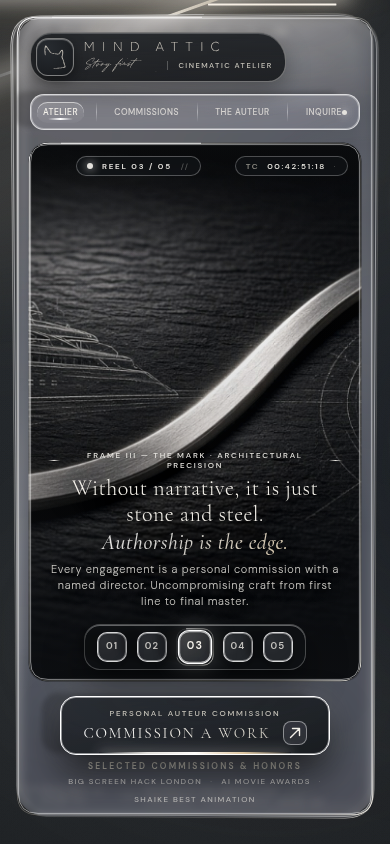
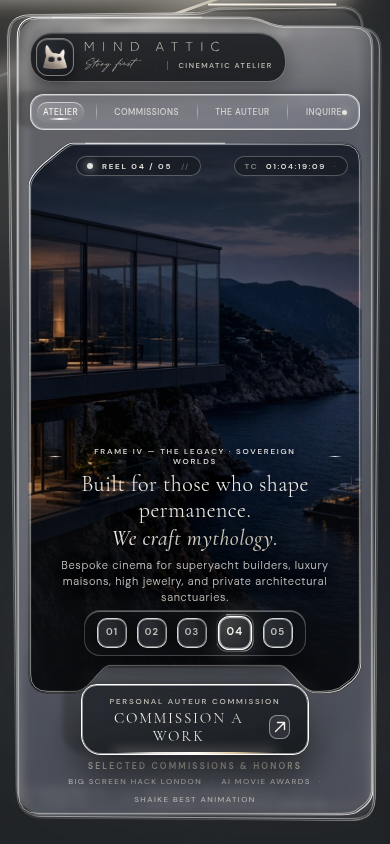
Restore the foil creature and sculpt the mobile frames.
The traced mark lost the eye cutouts, so the badge uses the original PNG again. Wordmark and signature stay the platinum SVGs. On phones the chassis, outer shell, and cinema viewport keep scaled asymmetric contours, including the bottom notch that frames Commission a Work.

diff --git a/assets/js/app.js b/assets/js/app.js
@@ -109,18 +109,17 @@
   }
 
   function buildChassisPath(w, h, r, inset, stepXRatio, stepDrop) {
-    // Stacked mobile header: a plain rounded contour. The desktop terrace
-    // step would slice through the nav once brand and nav sit on two rows.
-    if (w < 768) return roundedRectPath(w, h, r, inset);
+    const mobile = w < 768;
     const x0 = inset;
     const y0 = inset;
     const x1 = w - inset;
     const y1 = h - inset;
-    const rad = Math.max(8, r - inset);
+    const radius = mobile ? 24 : r;
+    const rad = Math.max(8, radius - inset);
 
     const stepX = Math.round(w * stepXRatio);
-    const sDrop = stepDrop;
-    const sWidth = Math.min(54, Math.max(24, w * 0.04));
+    const sDrop = mobile ? Math.round(stepDrop * 0.65) : stepDrop;
+    const sWidth = mobile ? Math.min(36, Math.max(20, w * 0.06)) : Math.min(54, Math.max(24, w * 0.04));
 
     return [
       `M ${x0 + rad} ${y0}`,
@@ -148,29 +147,50 @@
   function buildLayer3Path(w, h, inset) {
     const isMobile = w < 768;
     const r = isMobile ? 22 : 30;
-    // On the stacked mobile header the desktop S-curve terrace (wingW / step)
-    // drops across the right side and cuts the navigation pill. Wrap the
-    // whole stack in one even rounded contour instead.
-    if (isMobile) return roundedRectPath(w, h, r, inset);
     const rad = Math.max(8, r - inset);
     const x0 = inset;
     const y0 = inset;
     const x1 = w - inset;
     const y1 = h - inset;
 
-    // Top-left sanctuary wing width and gentle step drop
-    const wingW = Math.min(410, Math.max(280, Math.round(w * 0.27)));
-    const slopeW = 68;
-    const drop = 12;
+    // Top-left sanctuary wing. On mobile the wing only covers the logo badge
+    // (about 9px of drop at the top edge). The nav rail sits a full row below.
+    const wingW = isMobile
+      ? Math.min(Math.round(w * 0.64), 270)
+      : Math.min(410, Math.max(280, Math.round(w * 0.27)));
+    const slopeW = isMobile ? 42 : 68;
+    const drop = isMobile ? 9 : 12;
+    const slopeEnd = Math.min(wingW + slopeW, x1 - rad - 8);
 
+    if (!isMobile) {
+      return [
+        `M ${x0 + rad} ${y0}`,
+        `L ${wingW} ${y0}`,
+        `C ${wingW + slopeW * 0.45} ${y0}, ${wingW + slopeW * 0.55} ${y0 + drop}, ${wingW + slopeW} ${y0 + drop}`,
+        `L ${x1 - rad} ${y0 + drop}`,
+        `Q ${x1} ${y0 + drop} ${x1} ${y0 + drop + rad}`,
+        `L ${x1} ${y1 - rad}`,
+        `Q ${x1} ${y1} ${x1 - rad} ${y1}`,
+        `L ${x0 + rad} ${y1}`,
+        `Q ${x0} ${y1} ${x0} ${y1 - rad}`,
+        `L ${x0} ${y0 + rad}`,
+        `Q ${x0} ${y0} ${x0 + rad} ${y0}`,
+        "Z",
+      ].join(" ");
+    }
+
+    const brCutX = 22;
+    const brCutY = 16;
     return [
       `M ${x0 + rad} ${y0}`,
       `L ${wingW} ${y0}`,
-      `C ${wingW + slopeW * 0.45} ${y0}, ${wingW + slopeW * 0.55} ${y0 + drop}, ${wingW + slopeW} ${y0 + drop}`,
+      `C ${wingW + slopeW * 0.45} ${y0}, ${wingW + slopeW * 0.55} ${y0 + drop}, ${slopeEnd} ${y0 + drop}`,
       `L ${x1 - rad} ${y0 + drop}`,
       `Q ${x1} ${y0 + drop} ${x1} ${y0 + drop + rad}`,
-      `L ${x1} ${y1 - rad}`,
-      `Q ${x1} ${y1} ${x1 - rad} ${y1}`,
+      `L ${x1} ${y1 - brCutY - rad * 0.4}`,
+      `Q ${x1} ${y1 - brCutY} ${x1 - brCutX * 0.35} ${y1 - brCutY * 0.55}`,
+      `L ${x1 - brCutX * 0.75} ${y1 - brCutY * 0.15}`,
+      `Q ${x1 - brCutX} ${y1} ${x1 - brCutX - rad * 0.5} ${y1}`,
       `L ${x0 + rad} ${y1}`,
       `Q ${x0} ${y1} ${x0} ${y1 - rad}`,
       `L ${x0} ${y0 + rad}`,
@@ -190,9 +210,6 @@
   function buildViewportPath(w, h, inset) {
     const isMobile = w < 768;
     const r = isMobile ? 20 : 28;
-    // No bottom notch on mobile. The notch was drawn through the reel
-    // switcher and the commission dock once those panels stacked.
-    if (isMobile) return roundedRectPath(w, h, r, inset);
     const rad = Math.max(6, r - inset);
     const x0 = inset;
     const y0 = inset;
@@ -200,24 +217,28 @@
     const y1 = h - inset;
 
     // Top-left asymmetrical diagonal sweep (echoing the creature's left ear slope)
-    const cutX = Math.min(118, Math.round(w * 0.082));
-    const cutY = Math.min(68, Math.round(h * 0.095));
+    const cutX = isMobile ? Math.min(52, Math.round(w * 0.13)) : Math.min(118, Math.round(w * 0.082));
+    const cutY = isMobile ? Math.min(34, Math.round(h * 0.065)) : Math.min(68, Math.round(h * 0.095));
 
-    // Bottom-center sculpted notch for the floating glass CTA dock.
-    const notchHalfW = Math.min(196, Math.max(28, Math.round(w * 0.3)));
-    const notchDepth = 34;
-    const notchCurve = 48;
+    // Bottom-center sculpted notch for the Commission a Work dock.
+    const notchCurve = isMobile ? 26 : 48;
+    const brCutX = isMobile ? 28 : 56;
+    const brCutY = isMobile ? 20 : 42;
+    let notchHalfW = isMobile
+      ? Math.min(122, Math.max(96, Math.round(w * 0.33)))
+      : Math.min(196, Math.max(28, Math.round(w * 0.3)));
+    const notchDepth = isMobile ? 26 : 34;
     const cx = w * 0.5;
+    // Keep the notch mouth to the left of the bottom-right chamfer.
+    const brLanding = x1 - brCutX - rad * 0.6;
+    const maxHalf = brLanding - cx - notchCurve - 6;
+    if (maxHalf > 48) notchHalfW = Math.min(notchHalfW, maxHalf);
 
     const nLeftStart = cx - notchHalfW - notchCurve;
     const nLeftInner = cx - notchHalfW + notchCurve * 0.35;
     const nRightInner = cx + notchHalfW - notchCurve * 0.35;
     const nRightEnd = cx + notchHalfW + notchCurve;
     const nTopY = y1 - notchDepth;
-
-    // Bottom-right subtle asymmetrical chamfer (echoing Attachment 3's right corner balance)
-    const brCutX = 56;
-    const brCutY = 42;
 
     return [
       // Start after top-left diagonal sweep

diff --git a/assets/css/style.css b/assets/css/style.css
@@ -1431,13 +1431,11 @@ html, body {
     max-height: none;
   }
 
-  /* Keep the offset small enough that the rear frames stay in the obsidian
-     margin instead of sweeping through the header. */
   .glass-layer--1 {
-    transform: rotate(-0.45deg) translate(-3px, -2px);
+    transform: rotate(-0.65deg) translate(-5px, -4px);
   }
   .glass-layer--2 {
-    transform: rotate(0.35deg) translate(3px, 2px);
+    transform: rotate(0.45deg) translate(5px, 4px);
   }
 
   .layer-2-telemetry-bar {
@@ -1568,7 +1566,7 @@ html, body {
 
   .cinema-editorial-copy {
     width: 88%;
-    bottom: 72px;
+    bottom: 88px;
     gap: 6px;
   }
 
@@ -1597,10 +1595,10 @@ html, body {
     line-height: 1.45;
   }
 
-  /* Inside the cinema frame, clear of the rounded stroke. */
+  /* Sits above the 26px commission notch so the stroke does not cross the pills. */
   .reel-switcher-rail {
     top: auto;
-    bottom: 12px;
+    bottom: 38px;
     left: 50%;
     right: auto;
     transform: translateX(-50%);
@@ -1650,17 +1648,19 @@ html, body {
 
   .cta-command-dock-wrap {
     order: -1;
-    margin-top: 0;
+    margin-top: -24px;
+    position: relative;
+    z-index: 14;
     display: flex;
     justify-content: center;
   }
 
   .cta-command-button {
     min-width: 0;
-    width: auto;
-    max-width: 100%;
-    padding: 8px 22px 9px;
-    border-radius: 16px;
+    width: 228px;
+    max-width: 72vw;
+    padding: 8px 18px 9px;
+    border-radius: 16px 20px 16px 20px;
   }
 
   .cta-title {

diff --git a/index.html b/index.html
@@ -197,7 +197,7 @@
           <!-- Top-Left Brand Sanctuary (Echoing the Creature's Asymmetrical Ear Wing) -->
           <a href="#hero-section" class="brand-sanctuary" aria-label="Mind Attic — Story first">
             <div class="brand-mark-pedestal">
-              <img src="assets/brand-mark.svg" alt="The Creature of the Attic" class="brand-creature-img" />
+              <img src="assets/mindattic-mark-foil.png" alt="The Creature of the Attic" class="brand-creature-img" />
               <span class="brand-pedestal-ring" aria-hidden="true"></span>
             </div>
             <div class="brand-lockup-text">
